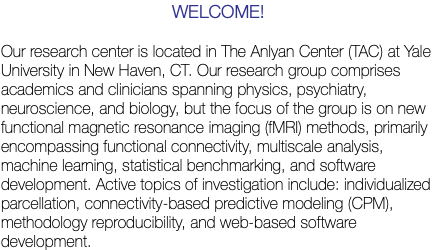
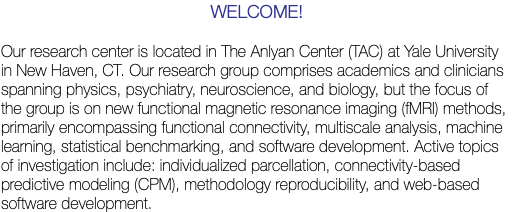
new website

diff --git a/css/index.css b/css/index.css
@@ -1,1 +1,1 @@
-.version.index{color:#00000A;background-color:#85022C;}.js body{visibility:hidden;}.js body.initialized{visibility:visible;}#page{margin-left:auto;background-image:none;width:100%;z-index:1;background-color:transparent;border-color:#000000;margin-right:auto;border-width:0px;}#u272{height:37px;top:0px;z-index:33;position:fixed;}#u272-bw{z-index:33;}#u93308{z-index:31;background-color:transparent;margin-right:-10000px;position:relative;}#u93306{width:100%;z-index:32;display:block;}#u90329{z-index:15;background-color:transparent;border-color:transparent;position:relative;border-width:0px;}#u862-9{z-index:16;vertical-align:top;margin-right:-10000px;position:relative;display:block;}#u81637{z-index:5;background-color:transparent;border-color:transparent;position:relative;border-width:0px;}#u81633{border-color:transparent;z-index:6;width:100%;background-color:transparent;margin-right:-10000px;position:relative;border-width:0px;}#u41612{border-color:transparent;z-index:7;width:100%;background-color:transparent;margin-right:-10000px;position:relative;border-width:0px;}#u2365-7{z-index:8;vertical-align:top;margin-right:-10000px;position:relative;display:block;}#pu46167-3{margin-right:-10000px;z-index:2;width:100%;}#u46167-3,#u46167-3-bw{z-index:2;}#u37043{margin-right:-10000px;z-index:25;position:relative;}#u36722{margin-right:-10000px;z-index:26;position:relative;width:100%;}#u35309{margin-right:-10000px;z-index:28;position:relative;}#u33361{margin-right:-10000px;z-index:29;position:relative;width:100%;}#u33359{z-index:30;}#u36706{z-index:27;margin-right:-10000px;position:relative;}.ie #u36706{-ms-filter:"progid:DXImageTransform.Microsoft.Alpha(Opacity=1)";background-color:#FFFFFF;opacity:0.01;filter:alpha(opacity=1);}#u36706 .fluid_height_spacer{padding-bottom:100%;}.html{background-color:#FFFFFF;}body{position:relative;}@media (min-width: 860px), print{#muse_css_mq{background-color:#FFFFFF;}#bp_infinity.active{display:block;}#page{min-height:541px;max-width:960px;}#u93308{margin-top:79px;width:13.23%;left:3.75%;}#pu90329{z-index:15;padding-bottom:0px;margin-right:-10000px;margin-top:87px;width:72.09%;margin-left:18.23%;}#u90329{width:91.77%;margin-left:7.66%;}#u862-9{width:99.85%;}#u81637{margin-top:13px;width:100%;}#u2365-7{width:100%;}#pu3859{z-index:34;height:0px;padding-bottom:20px;margin-right:-10000px;margin-top:10px;width:39.59%;}#u3859{z-index:34;padding-bottom:19px;position:fixed;top:11px;right:60px;width:39.59%;max-width:380px;}#u287-4{z-index:43;min-height:19px;position:fixed;top:11px;right:359px;width:8.44%;max-width:81px;}#u281-4{z-index:39;min-height:19px;position:fixed;top:11px;right:250px;width:10.63%;max-width:102px;}#u278-4{z-index:35;min-height:19px;position:fixed;top:11px;right:60px;width:9.17%;max-width:88px;}#u42086-6{z-index:47;min-height:19px;position:fixed;top:11px;right:154px;width:10.63%;max-width:102px;}.css_verticalspacer .verticalspacer{height:calc(100vh - 485px);}#pu46167-3{margin-bottom:-12px;margin-top:65px;}#u46167-3{min-height:37px;}#u46167-3-bw{min-height:37px;margin-top:1px;}#u37043{width:9.17%;left:45.73%;}#u35309{width:39.78%;}#u33359{width:102.86%;}#u36706{margin-top:1px;width:47.73%;left:52.28%;}.verticalspacer{min-height:55px;}}@media (min-width: 795px) and (max-width: 859px){#muse_css_mq{background-color:#00035b;}#bp_859.active{display:block;}#page{min-height:541px;max-width:859px;}#u93308{margin-top:79px;width:13.28%;left:3.73%;}#pu90329{z-index:15;padding-bottom:0px;margin-right:-10000px;margin-top:87px;width:72.07%;margin-left:18.28%;}#u90329{width:91.77%;margin-left:7.6%;}#u862-9{width:100%;}#u81637{margin-top:13px;width:100%;}#u2365-7{margin-bottom:-1px;width:100%;left:-0.17%;}#pu3859{z-index:34;height:0px;padding-bottom:19px;margin-right:-10000px;margin-top:8px;width:37.49%;}#u3859{z-index:34;padding-bottom:20px;position:fixed;top:8px;right:99px;width:37.49%;max-width:322px;}#u287-4{z-index:43;min-height:19px;position:fixed;top:9px;right:365px;width:6.52%;max-width:56px;}#u281-4{z-index:39;min-height:19px;position:fixed;top:8px;right:260px;width:11.3%;max-width:97px;}#u278-4{z-index:35;min-height:19px;position:fixed;top:9px;right:99px;width:6.76%;max-width:58px;}#u42086-6{z-index:47;min-height:19px;position:fixed;top:8px;right:170px;width:9.67%;max-width:83px;}.css_verticalspacer .verticalspacer{height:calc(100vh - 481px);}#pu46167-3{margin-bottom:-2px;margin-top:62px;}#u46167-3,#u46167-3-bw{min-height:30px;}#u37043{width:7.69%;left:45.99%;}#u35309{width:45.46%;}#u33359{width:103.34%;}#u36706{margin-top:2px;width:45.46%;left:54.55%;}body{overflow-x:hidden;}.verticalspacer{min-height:59px;}}@media (min-width: 565px) and (max-width: 794px){#muse_css_mq{background-color:#00031a;}#bp_794.active{display:block;}#page{min-height:541px;max-width:794px;}#u93308{margin-top:79px;width:13.23%;left:3.66%;}#pu90329{z-index:15;padding-bottom:0px;margin-right:-10000px;margin-top:87px;width:72.17%;margin-left:18.27%;}#u90329{width:91.63%;margin-left:7.68%;}#u862-9{width:100%;}#u81637{margin-top:13px;width:100%;}#u2365-7{width:100%;left:-0.18%;}#pu3859{z-index:34;height:1px;padding-bottom:19px;margin-right:-10000px;margin-top:10px;width:43.83%;}#u3859{z-index:34;padding-bottom:19px;position:fixed;top:10px;right:20px;width:43.83%;max-width:348px;}#u287-4{z-index:43;min-height:19px;position:fixed;top:10px;right:294px;width:9.32%;max-width:74px;}#u281-4{z-index:39;min-height:19px;position:fixed;top:10px;right:178px;width:16.88%;max-width:134px;}#u278-4{z-index:35;min-height:19px;position:fixed;top:10px;right:20px;width:7.81%;max-width:62px;}#u42086-6{z-index:47;min-height:19px;position:fixed;top:11px;right:88px;width:11.97%;max-width:95px;}.css_verticalspacer .verticalspacer{height:calc(100vh - 471px);}#pu46167-3{margin-top:34px;}#u46167-3,#u46167-3-bw{min-height:28px;}#u37043{width:7.56%;left:48.37%;}#u35309{width:48.34%;}#u33359{width:103.45%;}#u36706{margin-top:1px;width:46.67%;left:53.34%;}body{overflow-x:hidden;}.verticalspacer{min-height:69px;}}@media (min-width: 563px) and (max-width: 564px){#muse_css_mq{background-color:#000234;}#bp_564.active{display:block;}#page{min-height:541px;max-width:564px;}#pu272{z-index:33;width:0.01px;height:0px;padding-bottom:37px;margin-right:-10000px;}#accordionu17886{z-index:34;position:fixed;top:0px;}#u17887{z-index:35;}#u17888-3{z-index:36;min-height:37px;}#u17888-3:hover{padding-top:0px;padding-bottom:0px;min-height:37px;margin:0px 0px 0px 0%;}#u17888-3.AccordionPanelTabOpen{padding-top:0px;padding-bottom:0px;min-height:37px;margin:0px 0px 0px 0%;}#u17889{z-index:39;width:100%;padding-top:4px;padding-bottom:1px;}#u17891-6{z-index:40;min-height:17px;position:relative;width:24.83%;margin-left:70.75%;}#u17890-6{z-index:58;min-height:23px;margin-top:3px;position:relative;width:36%;margin-left:60.47%;}#u17892-6{z-index:52;min-height:24px;margin-top:2px;position:relative;width:35.64%;margin-left:60.11%;}#u17893-6{z-index:46;min-height:25px;margin-top:1px;position:relative;width:24.83%;margin-left:70.93%;}#accordionu17886-bw{z-index:34;}#u93308{margin-top:79px;width:13.3%;left:3.73%;}#pu90329{z-index:15;padding-bottom:0px;margin-right:-10000px;margin-top:87px;width:72.17%;margin-left:18.27%;}#u90329{width:91.65%;margin-left:7.62%;}#u862-9{width:99.74%;}#u81637{margin-top:13px;width:100%;}#u2365-7{width:100%;left:-0.25%;}.css_verticalspacer .verticalspacer{height:calc(100vh - 563px);}#pu46167-3{margin-bottom:-12px;margin-top:36px;}#u46167-3{min-height:29px;}#u46167-3-bw{min-height:29px;margin-top:1px;}#u37043{width:11.53%;left:45.93%;}#u35309{width:47.7%;}#u33359{width:100%;}#u36706{margin-top:1px;width:43.08%;left:56.93%;}body{overflow-x:hidden;}.verticalspacer{min-height:1px;}}@media (max-width: 562px){#muse_css_mq{background-color:#000232;}#bp_562.active{display:block;}#page{min-height:729px;max-width:562px;}#pu272{z-index:33;width:0.01px;height:0px;padding-bottom:37px;margin-right:-10000px;}#accordionu17886{z-index:34;position:fixed;top:0px;}#u17887{z-index:35;}#u17888-3{z-index:36;min-height:37px;}#u17888-3:hover{padding-top:0px;padding-bottom:0px;min-height:37px;margin:0px 0px 0px 0%;}#u17888-3.AccordionPanelTabOpen{padding-top:0px;padding-bottom:0px;min-height:37px;margin:0px 0px 0px 0%;}#u17889{z-index:39;width:100%;padding-top:4px;padding-bottom:1px;}#u17891-6{z-index:40;min-height:17px;position:relative;width:24.74%;margin-left:70.65%;}#u17890-6{z-index:58;min-height:23px;margin-top:3px;position:relative;width:36.13%;margin-left:60.33%;}#u17892-6{z-index:52;min-height:24px;margin-top:2px;position:relative;width:35.59%;margin-left:60.15%;}#u17893-6{z-index:46;min-height:25px;margin-top:1px;position:relative;width:24.74%;margin-left:70.82%;}#accordionu17886-bw{z-index:34;}#ppu93308{z-index:0;padding-bottom:0px;margin-right:-10000px;margin-top:77px;width:80.08%;margin-left:3.74%;}#pu93308{z-index:31;width:100%;}#u93308{margin-top:2px;width:31.12%;}#u90329{margin-right:-10000px;width:60.45%;left:39.56%;}#u862-9{width:99.64%;}#u81637{margin-top:32px;width:96.45%;margin-left:3.56%;}#u2365-7{width:100.24%;left:-0.24%;}.css_verticalspacer .verticalspacer{height:calc(100vh - 698px);}#pu46167-3{margin-bottom:-12px;margin-top:37px;}#u46167-3,#u46167-3-bw{min-height:29px;}#u37043{width:11.57%;left:45.91%;}#u35309{width:47.7%;}#u33359{width:100%;}#u36706{margin-top:1px;width:43.08%;left:56.93%;}body{overflow-x:hidden;min-width:320px;}.verticalspacer{min-height:30px;}}
+.version.index{color:#0000E6;background-color:#D97AEB;}.js body{visibility:hidden;}.js body.initialized{visibility:visible;}#page{margin-left:auto;background-image:none;width:100%;z-index:1;background-color:transparent;border-color:#000000;margin-right:auto;border-width:0px;}#u272{height:37px;top:0px;z-index:33;position:fixed;}#u272-bw{z-index:33;}#u93308{z-index:31;background-color:transparent;margin-right:-10000px;position:relative;}#u93306{width:100%;z-index:32;display:block;}#u90329{z-index:15;background-color:transparent;border-color:transparent;position:relative;border-width:0px;}#u862-9{z-index:16;vertical-align:top;margin-right:-10000px;position:relative;display:block;}#u81637{z-index:5;background-color:transparent;border-color:transparent;position:relative;border-width:0px;}#u81633{border-color:transparent;z-index:6;width:100%;background-color:transparent;margin-right:-10000px;position:relative;border-width:0px;}#u41612{border-color:transparent;z-index:7;width:100%;background-color:transparent;margin-right:-10000px;position:relative;border-width:0px;}#u2365-7{z-index:8;vertical-align:top;margin-right:-10000px;position:relative;display:block;}#pu46167-3{margin-right:-10000px;z-index:2;width:100%;}#u46167-3,#u46167-3-bw{z-index:2;}#u37043{margin-right:-10000px;z-index:25;position:relative;}#u36722{margin-right:-10000px;z-index:26;position:relative;width:100%;}#u35309{margin-right:-10000px;z-index:28;position:relative;}#u33361{margin-right:-10000px;z-index:29;position:relative;width:100%;}#u33359{z-index:30;}#u36706{z-index:27;margin-right:-10000px;position:relative;}.ie #u36706{-ms-filter:"progid:DXImageTransform.Microsoft.Alpha(Opacity=1)";background-color:#FFFFFF;opacity:0.01;filter:alpha(opacity=1);}#u36706 .fluid_height_spacer{padding-bottom:100%;}.html{background-color:#FFFFFF;}body{position:relative;}@media (min-width: 860px), print{#muse_css_mq{background-color:#FFFFFF;}#bp_infinity.active{display:block;}#page{min-height:541px;max-width:960px;}#u93308{margin-top:79px;width:13.23%;left:3.75%;}#pu90329{z-index:15;padding-bottom:0px;margin-right:-10000px;margin-top:87px;width:72.09%;margin-left:18.23%;}#u90329{width:91.77%;margin-left:7.66%;}#u862-9{width:99.85%;}#u81637{margin-top:13px;width:100%;}#u2365-7{width:100%;}#pu3859{z-index:34;height:0px;padding-bottom:20px;margin-right:-10000px;margin-top:10px;width:39.59%;}#u3859{z-index:34;padding-bottom:19px;position:fixed;top:11px;right:60px;width:39.59%;max-width:380px;}#u287-4{z-index:43;min-height:19px;position:fixed;top:11px;right:359px;width:8.44%;max-width:81px;}#u281-4{z-index:39;min-height:19px;position:fixed;top:11px;right:250px;width:10.63%;max-width:102px;}#u278-4{z-index:35;min-height:19px;position:fixed;top:11px;right:60px;width:9.17%;max-width:88px;}#u42086-6{z-index:47;min-height:19px;position:fixed;top:11px;right:154px;width:10.63%;max-width:102px;}.css_verticalspacer .verticalspacer{height:calc(100vh - 485px);}#pu46167-3{margin-bottom:-12px;margin-top:65px;}#u46167-3{min-height:37px;}#u46167-3-bw{min-height:37px;margin-top:1px;}#u37043{width:9.17%;left:45.73%;}#u35309{width:39.78%;}#u33359{width:102.86%;}#u36706{margin-top:1px;width:47.73%;left:52.28%;}.verticalspacer{min-height:55px;}}@media (min-width: 795px) and (max-width: 859px){#muse_css_mq{background-color:#00035b;}#bp_859.active{display:block;}#page{min-height:541px;max-width:859px;}#u93308{margin-top:79px;width:13.28%;left:3.73%;}#pu90329{z-index:15;padding-bottom:0px;margin-right:-10000px;margin-top:87px;width:72.07%;margin-left:18.28%;}#u90329{width:91.77%;margin-left:7.6%;}#u862-9{width:100%;}#u81637{margin-top:13px;width:100%;}#u2365-7{margin-bottom:-1px;width:100%;left:-0.17%;}#pu3859{z-index:34;height:0px;padding-bottom:19px;margin-right:-10000px;margin-top:8px;width:37.49%;}#u3859{z-index:34;padding-bottom:20px;position:fixed;top:8px;right:99px;width:37.49%;max-width:322px;}#u287-4{z-index:43;min-height:19px;position:fixed;top:9px;right:365px;width:6.52%;max-width:56px;}#u281-4{z-index:39;min-height:19px;position:fixed;top:8px;right:260px;width:11.3%;max-width:97px;}#u278-4{z-index:35;min-height:19px;position:fixed;top:9px;right:99px;width:6.76%;max-width:58px;}#u42086-6{z-index:47;min-height:19px;position:fixed;top:8px;right:170px;width:9.67%;max-width:83px;}.css_verticalspacer .verticalspacer{height:calc(100vh - 481px);}#pu46167-3{margin-bottom:-2px;margin-top:62px;}#u46167-3,#u46167-3-bw{min-height:30px;}#u37043{width:7.69%;left:45.99%;}#u35309{width:45.46%;}#u33359{width:103.34%;}#u36706{margin-top:2px;width:45.46%;left:54.55%;}body{overflow-x:hidden;}.verticalspacer{min-height:59px;}}@media (min-width: 565px) and (max-width: 794px){#muse_css_mq{background-color:#00031a;}#bp_794.active{display:block;}#page{min-height:541px;max-width:794px;}#u93308{margin-top:79px;width:13.23%;left:3.66%;}#pu90329{z-index:15;padding-bottom:0px;margin-right:-10000px;margin-top:87px;width:72.17%;margin-left:18.27%;}#u90329{width:91.63%;margin-left:7.68%;}#u862-9{width:100%;}#u81637{margin-top:13px;width:100%;}#u2365-7{width:100%;left:-0.18%;}#pu3859{z-index:34;height:1px;padding-bottom:19px;margin-right:-10000px;margin-top:10px;width:43.83%;}#u3859{z-index:34;padding-bottom:19px;position:fixed;top:10px;right:20px;width:43.83%;max-width:348px;}#u287-4{z-index:43;min-height:19px;position:fixed;top:10px;right:294px;width:9.32%;max-width:74px;}#u281-4{z-index:39;min-height:19px;position:fixed;top:10px;right:178px;width:16.88%;max-width:134px;}#u278-4{z-index:35;min-height:19px;position:fixed;top:10px;right:20px;width:7.81%;max-width:62px;}#u42086-6{z-index:47;min-height:19px;position:fixed;top:11px;right:88px;width:11.97%;max-width:95px;}.css_verticalspacer .verticalspacer{height:calc(100vh - 471px);}#pu46167-3{margin-top:34px;}#u46167-3,#u46167-3-bw{min-height:28px;}#u37043{width:7.56%;left:48.37%;}#u35309{width:48.34%;}#u33359{width:103.45%;}#u36706{margin-top:1px;width:46.67%;left:53.34%;}body{overflow-x:hidden;}.verticalspacer{min-height:69px;}}@media (min-width: 563px) and (max-width: 564px){#muse_css_mq{background-color:#000234;}#bp_564.active{display:block;}#page{min-height:541px;max-width:564px;}#pu272{z-index:33;width:0.01px;height:0px;padding-bottom:37px;margin-right:-10000px;}#accordionu17886{z-index:34;position:fixed;top:0px;}#u17887{z-index:35;}#u17888-3{z-index:36;min-height:37px;}#u17888-3:hover{padding-top:0px;padding-bottom:0px;min-height:37px;margin:0px 0px 0px 0%;}#u17888-3.AccordionPanelTabOpen{padding-top:0px;padding-bottom:0px;min-height:37px;margin:0px 0px 0px 0%;}#u17889{z-index:39;width:100%;padding-top:4px;padding-bottom:1px;}#u17891-6{z-index:40;min-height:17px;position:relative;width:24.83%;margin-left:70.75%;}#u17890-6{z-index:58;min-height:23px;margin-top:3px;position:relative;width:36%;margin-left:60.47%;}#u17892-6{z-index:52;min-height:24px;margin-top:2px;position:relative;width:35.64%;margin-left:60.11%;}#u17893-6{z-index:46;min-height:25px;margin-top:1px;position:relative;width:24.83%;margin-left:70.93%;}#accordionu17886-bw{z-index:34;}#u93308{margin-top:79px;width:13.3%;left:3.73%;}#pu90329{z-index:15;padding-bottom:0px;margin-right:-10000px;margin-top:87px;width:72.17%;margin-left:18.27%;}#u90329{width:91.65%;margin-left:7.62%;}#u862-9{width:99.74%;}#u81637{margin-top:13px;width:100%;}#u2365-7{width:100%;left:-0.25%;}.css_verticalspacer .verticalspacer{height:calc(100vh - 563px);}#pu46167-3{margin-bottom:-12px;margin-top:36px;}#u46167-3{min-height:29px;}#u46167-3-bw{min-height:29px;margin-top:1px;}#u37043{width:11.53%;left:45.93%;}#u35309{width:47.7%;}#u33359{width:100%;}#u36706{margin-top:1px;width:43.08%;left:56.93%;}body{overflow-x:hidden;}.verticalspacer{min-height:1px;}}@media (max-width: 562px){#muse_css_mq{background-color:#000232;}#bp_562.active{display:block;}#page{min-height:729px;max-width:562px;}#pu272{z-index:33;width:0.01px;height:0px;padding-bottom:37px;margin-right:-10000px;}#accordionu17886{z-index:34;position:fixed;top:0px;}#u17887{z-index:35;}#u17888-3{z-index:36;min-height:37px;}#u17888-3:hover{padding-top:0px;padding-bottom:0px;min-height:37px;margin:0px 0px 0px 0%;}#u17888-3.AccordionPanelTabOpen{padding-top:0px;padding-bottom:0px;min-height:37px;margin:0px 0px 0px 0%;}#u17889{z-index:39;width:100%;padding-top:4px;padding-bottom:1px;}#u17891-6{z-index:40;min-height:17px;position:relative;width:24.74%;margin-left:70.65%;}#u17890-6{z-index:58;min-height:23px;margin-top:3px;position:relative;width:36.13%;margin-left:60.33%;}#u17892-6{z-index:52;min-height:24px;margin-top:2px;position:relative;width:35.59%;margin-left:60.15%;}#u17893-6{z-index:46;min-height:25px;margin-top:1px;position:relative;width:24.74%;margin-left:70.82%;}#accordionu17886-bw{z-index:34;}#ppu93308{z-index:0;padding-bottom:0px;margin-right:-10000px;margin-top:77px;width:92%;margin-left:3.74%;}#pu93308{z-index:31;width:87.05%;}#u93308{margin-top:2px;width:31.12%;}#u90329{margin-right:-10000px;width:60.45%;left:39.56%;}#u862-9{width:99.64%;}#u81637{margin-top:16px;width:98.84%;margin-left:1.17%;}#u2365-7{width:100.2%;left:-0.2%;}.css_verticalspacer .verticalspacer{height:calc(100vh - 644px);}#pu46167-3{margin-bottom:-12px;margin-top:37px;}#u46167-3,#u46167-3-bw{min-height:29px;}#u37043{width:11.57%;left:45.91%;}#u35309{width:47.7%;}#u33359{width:100%;}#u36706{margin-top:1px;width:43.08%;left:56.93%;}body{overflow-x:hidden;min-width:320px;}.verticalspacer{min-height:84px;}}

diff --git a/css/master_a-master.css b/css/master_a-master.css
@@ -1,1 +1,1 @@
-#u272{background-color:#00356B;}#u46167-3{background-color:#00356B;color:#FFFFFF;}#u37043,#u36722,#u35309{background-color:transparent;border-color:transparent;border-width:0px;}#u33361{background-color:transparent;}#u33359{display:block;}@media (min-width: 860px), print{#u3859{border-width:0px;border-color:transparent;background-color:transparent;}#u287-4,#u281-4,#u278-4{background-color:transparent;text-align:center;color:#FFFFFF;font-family:Arial, Helvetica Neue, Helvetica, sans-serif;font-weight:normal;}#u42086-6{background-color:transparent;text-align:center;color:#FFFFFF;font-family:Geneva, Verdana, Lucida Sans, Lucida Sans Unicode, sans-serif;font-weight:bold;}#u42086{color:#FFFFFF;font-family:Arial, Helvetica Neue, Helvetica, sans-serif;font-weight:normal;}}@media (min-width: 795px) and (max-width: 859px){#u3859{border-width:0px;border-color:transparent;background-color:transparent;}#u287-4,#u281-4,#u278-4{background-color:transparent;text-align:center;color:#FFFFFF;font-family:Arial, Helvetica Neue, Helvetica, sans-serif;font-weight:normal;}#u42086-6{background-color:transparent;text-align:center;color:#FFFFFF;font-family:Geneva, Verdana, Lucida Sans, Lucida Sans Unicode, sans-serif;font-weight:bold;}#u42086{color:#FFFFFF;font-family:Arial, Helvetica Neue, Helvetica, sans-serif;font-weight:normal;}}@media (min-width: 764px) and (max-width: 794px){#u3859{border-width:0px;border-color:transparent;background-color:transparent;}#u287-4,#u281-4,#u278-4{background-color:transparent;text-align:center;color:#FFFFFF;font-family:Arial, Helvetica Neue, Helvetica, sans-serif;font-weight:normal;}#u42086-6{background-color:transparent;text-align:center;color:#FFFFFF;font-family:Geneva, Verdana, Lucida Sans, Lucida Sans Unicode, sans-serif;font-weight:bold;}#u42086{color:#FFFFFF;font-family:Arial, Helvetica Neue, Helvetica, sans-serif;font-weight:normal;}}@media (min-width: 648px) and (max-width: 763px){#u3859{border-width:0px;border-color:transparent;background-color:transparent;}#u287-4,#u281-4,#u278-4{background-color:transparent;text-align:center;color:#FFFFFF;font-family:Arial, Helvetica Neue, Helvetica, sans-serif;font-weight:normal;}#u42086-6{background-color:transparent;text-align:center;color:#FFFFFF;font-family:Geneva, Verdana, Lucida Sans, Lucida Sans Unicode, sans-serif;font-weight:bold;}#u42086{color:#FFFFFF;font-family:Arial, Helvetica Neue, Helvetica, sans-serif;font-weight:normal;}}@media (min-width: 565px) and (max-width: 647px){#u3859{border-width:0px;border-color:transparent;background-color:transparent;}#u287-4,#u281-4,#u278-4{background-color:transparent;text-align:center;color:#FFFFFF;font-family:Arial, Helvetica Neue, Helvetica, sans-serif;font-weight:normal;}#u42086-6{background-color:transparent;text-align:center;color:#FFFFFF;font-family:Geneva, Verdana, Lucida Sans, Lucida Sans Unicode, sans-serif;font-weight:bold;}#u42086{color:#FFFFFF;font-family:Arial, Helvetica Neue, Helvetica, sans-serif;font-weight:normal;}}@media (min-width: 501px) and (max-width: 564px){#accordionu17886,#u17887{border-width:0px;background-color:transparent;}#u17888-3{border-width:0px;opacity:1;-ms-filter:"progid:DXImageTransform.Microsoft.Alpha(Opacity=100)";filter:alpha(opacity=100);background:#00356B url("../images/ico_ham.svg?crc=496736174") no-repeat right center;background-size:59px 59px;}#u17888-3:hover{opacity:1;-ms-filter:"progid:DXImageTransform.Microsoft.Alpha(Opacity=100)";filter:alpha(opacity=100);background:transparent url("../images/ico_ham.svg?crc=496736174") no-repeat right center;background-size:59px 59px;}#u17888-3.AccordionPanelTabOpen{opacity:1;-ms-filter:"progid:DXImageTransform.Microsoft.Alpha(Opacity=100)";filter:alpha(opacity=100);background:#525358 url("../images/ico_ham_close.svg?crc=528877227") no-repeat right center;background-color:rgba(39,41,47,0.8);background-size:59px 59px;}.nosvg #u17888-3,.nosvg #u17888-3:hover{background-image:url('../images/ico_ham_poster_u70664.png?crc=3918579516');}#u17888-3.AccordionPanelTabOpen p{color:#4F4F4F;visibility:inherit;}.nosvg #u17888-3.AccordionPanelTabOpen{background-image:url('../images/ico_ham_close_poster_u70672.png?crc=266735806');}#u17889{border-width:0px;background-color:#525358;background-color:rgba(39,41,47,0.8);-pie-background:rgba(39,41,47,0.8);}#u17891-6,#u17890-6,#u17892-6,#u17893-6{background-color:transparent;text-align:right;color:#FFFFFF;}#u17891,#u17890,#u17892,#u17893{color:#FFFFFF;}.AccordionPanelTab{cursor:pointer;}}@media (max-width: 500px){#accordionu17886,#u17887{border-width:0px;background-color:transparent;}#u17888-3{border-width:0px;opacity:1;-ms-filter:"progid:DXImageTransform.Microsoft.Alpha(Opacity=100)";filter:alpha(opacity=100);background:#00356B url("../images/ico_ham.svg?crc=496736174") no-repeat right center;background-size:59px 59px;}#u17888-3:hover{opacity:1;-ms-filter:"progid:DXImageTransform.Microsoft.Alpha(Opacity=100)";filter:alpha(opacity=100);background:transparent url("../images/ico_ham.svg?crc=496736174") no-repeat right center;background-size:59px 59px;}#u17888-3.AccordionPanelTabOpen{opacity:1;-ms-filter:"progid:DXImageTransform.Microsoft.Alpha(Opacity=100)";filter:alpha(opacity=100);background:#525358 url("../images/ico_ham_close.svg?crc=528877227") no-repeat right center;background-color:rgba(39,41,47,0.8);background-size:59px 59px;}.nosvg #u17888-3,.nosvg #u17888-3:hover{background-image:url('../images/ico_ham_poster_u70664.png?crc=3918579516');}#u17888-3.AccordionPanelTabOpen p{color:#4F4F4F;visibility:inherit;}.nosvg #u17888-3.AccordionPanelTabOpen{background-image:url('../images/ico_ham_close_poster_u70672.png?crc=266735806');}#u17889{border-width:0px;background-color:#525358;background-color:rgba(39,41,47,0.8);-pie-background:rgba(39,41,47,0.8);}#u17891-6,#u17890-6,#u17892-6,#u17893-6{background-color:transparent;text-align:right;color:#FFFFFF;}#u17891,#u17890,#u17892,#u17893{color:#FFFFFF;}.AccordionPanelTab{cursor:pointer;}}
+#u272{background-color:#00356B;}#u46167-3{background-color:#00356B;color:#FFFFFF;}#u37043,#u36722,#u35309{background-color:transparent;border-color:transparent;border-width:0px;}#u33361{background-color:transparent;}#u33359{display:block;}@media (min-width: 860px), print{#u3859{border-width:0px;border-color:transparent;background-color:transparent;}#u287-4,#u281-4,#u278-4{background-color:transparent;text-align:center;color:#FFFFFF;font-family:Arial, Helvetica Neue, Helvetica, sans-serif;font-weight:normal;}#u42086-6{background-color:transparent;text-align:center;color:#FFFFFF;font-family:Geneva, Verdana, Lucida Sans, Lucida Sans Unicode, sans-serif;font-weight:bold;}#u42086{color:#FFFFFF;font-family:Arial, Helvetica Neue, Helvetica, sans-serif;font-weight:normal;}}@media (min-width: 795px) and (max-width: 859px){#u3859{border-width:0px;border-color:transparent;background-color:transparent;}#u287-4,#u281-4,#u278-4{background-color:transparent;text-align:center;color:#FFFFFF;font-family:Arial, Helvetica Neue, Helvetica, sans-serif;font-weight:normal;}#u42086-6{background-color:transparent;text-align:center;color:#FFFFFF;font-family:Geneva, Verdana, Lucida Sans, Lucida Sans Unicode, sans-serif;font-weight:bold;}#u42086{color:#FFFFFF;font-family:Arial, Helvetica Neue, Helvetica, sans-serif;font-weight:normal;}}@media (min-width: 565px) and (max-width: 794px){#u3859{border-width:0px;border-color:transparent;background-color:transparent;}#u287-4,#u281-4,#u278-4{background-color:transparent;text-align:center;color:#FFFFFF;font-family:Arial, Helvetica Neue, Helvetica, sans-serif;font-weight:normal;}#u42086-6{background-color:transparent;text-align:center;color:#FFFFFF;font-family:Geneva, Verdana, Lucida Sans, Lucida Sans Unicode, sans-serif;font-weight:bold;}#u42086{color:#FFFFFF;font-family:Arial, Helvetica Neue, Helvetica, sans-serif;font-weight:normal;}}@media (min-width: 563px) and (max-width: 564px){#accordionu17886,#u17887{border-width:0px;background-color:transparent;}#u17888-3{border-width:0px;opacity:1;-ms-filter:"progid:DXImageTransform.Microsoft.Alpha(Opacity=100)";filter:alpha(opacity=100);background:#00356B url("../images/ico_ham.svg?crc=496736174") no-repeat right center;background-size:59px 59px;}#u17888-3:hover{opacity:1;-ms-filter:"progid:DXImageTransform.Microsoft.Alpha(Opacity=100)";filter:alpha(opacity=100);background:transparent url("../images/ico_ham.svg?crc=496736174") no-repeat right center;background-size:59px 59px;}#u17888-3.AccordionPanelTabOpen{opacity:1;-ms-filter:"progid:DXImageTransform.Microsoft.Alpha(Opacity=100)";filter:alpha(opacity=100);background:#525358 url("../images/ico_ham_close.svg?crc=528877227") no-repeat right center;background-color:rgba(39,41,47,0.8);background-size:59px 59px;}.nosvg #u17888-3,.nosvg #u17888-3:hover{background-image:url('../images/ico_ham_poster_u70664.png?crc=3918579516');}#u17888-3.AccordionPanelTabOpen p{color:#4F4F4F;visibility:inherit;}.nosvg #u17888-3.AccordionPanelTabOpen{background-image:url('../images/ico_ham_close_poster_u70672.png?crc=266735806');}#u17889{border-width:0px;background-color:#525358;background-color:rgba(39,41,47,0.8);-pie-background:rgba(39,41,47,0.8);}#u17891-6,#u17890-6,#u17892-6,#u17893-6{background-color:transparent;text-align:right;color:#FFFFFF;}#u17891,#u17890,#u17892,#u17893{color:#FFFFFF;}.AccordionPanelTab{cursor:pointer;}}@media (max-width: 562px){#accordionu17886,#u17887{border-width:0px;background-color:transparent;}#u17888-3{border-width:0px;opacity:1;-ms-filter:"progid:DXImageTransform.Microsoft.Alpha(Opacity=100)";filter:alpha(opacity=100);background:#00356B url("../images/ico_ham.svg?crc=496736174") no-repeat right center;background-size:59px 59px;}#u17888-3:hover{opacity:1;-ms-filter:"progid:DXImageTransform.Microsoft.Alpha(Opacity=100)";filter:alpha(opacity=100);background:transparent url("../images/ico_ham.svg?crc=496736174") no-repeat right center;background-size:59px 59px;}#u17888-3.AccordionPanelTabOpen{opacity:1;-ms-filter:"progid:DXImageTransform.Microsoft.Alpha(Opacity=100)";filter:alpha(opacity=100);background:#525358 url("../images/ico_ham_close.svg?crc=528877227") no-repeat right center;background-color:rgba(39,41,47,0.8);background-size:59px 59px;}.nosvg #u17888-3,.nosvg #u17888-3:hover{background-image:url('../images/ico_ham_poster_u70664.png?crc=3918579516');}#u17888-3.AccordionPanelTabOpen p{color:#4F4F4F;visibility:inherit;}.nosvg #u17888-3.AccordionPanelTabOpen{background-image:url('../images/ico_ham_close_poster_u70672.png?crc=266735806');}#u17889{border-width:0px;background-color:#525358;background-color:rgba(39,41,47,0.8);-pie-background:rgba(39,41,47,0.8);}#u17891-6,#u17890-6,#u17892-6,#u17893-6{background-color:transparent;text-align:right;color:#FFFFFF;}#u17891,#u17890,#u17892,#u17893{color:#FFFFFF;}.AccordionPanelTab{cursor:pointer;}}

diff --git a/index.html b/index.html
@@ -18,7 +18,7 @@ if(typeof Muse == "undefined") window.Muse = {}; window.Muse.assets = {"required
   <!-- CSS -->
   <link rel="stylesheet" type="text/css" href="css/site_global.css?crc=4097807371"/>
   <link rel="stylesheet" type="text/css" href="css/master_a-master.css?crc=4083323208"/>
-  <link rel="stylesheet" type="text/css" href="css/index.css?crc=176489004" id="pagesheet"/>
+  <link rel="stylesheet" type="text/css" href="css/index.css?crc=3873012459" id="pagesheet"/>
   <!-- IE-only CSS -->
   <!--[if lt IE 9]>
   <link rel="stylesheet" type="text/css" href="css/nomq_preview_master_a-master.css?crc=3862258211"/>
@@ -193,12 +193,12 @@ if(typeof Muse == "undefined") window.Muse = {}; window.Muse.assets = {"required
      <div class="clearfix colelem temp_no_id" data-orig-id="u81637"><!-- group -->
       <div class="clearfix grpelem temp_no_id" data-orig-id="u81633"><!-- group -->
        <div class="clearfix grpelem temp_no_id" data-orig-id="u41612"><!-- group -->
-        <img class="grpelem temp_no_id temp_no_img_src" alt="WELCOME! Our research center is located in The Anlyan Center (TAC) at Yale University in New Haven, CT. Our research group comprises academics and clinicians spanning physics, psychiatry, neuroscience, and biology, but the focus of the group is on new functional magnetic resonance imaging (fMRI) methods, primarily encompassing functional connectivity, multiscale analysis, machine learning, statistical benchmarking, and software development. Active topics of investigation include: individualized parcellation, connectivity-based predictive modeling (CPM), methodology reproducibility, and web-based software development." data-orig-src="images/u2365-75.png?crc=3972023644" data-image-width="435" data-orig-id="u2365-7" src="images/blank.gif?crc=4208392903"/><!-- rasterized frame -->
+        <img class="grpelem temp_no_id temp_no_img_src" alt="WELCOME! Our research center is located in The Anlyan Center (TAC) at Yale University in New Haven, CT. Our research group comprises academics and clinicians spanning physics, psychiatry, neuroscience, and biology, but the focus of the group is on new functional magnetic resonance imaging (fMRI) methods, primarily encompassing functional connectivity, multiscale analysis, machine learning, statistical benchmarking, and software development. Active topics of investigation include: individualized parcellation, connectivity-based predictive modeling (CPM), methodology reproducibility, and web-based software development." data-orig-src="images/u2365-75.png?crc=197430816" data-image-width="512" data-orig-id="u2365-7" src="images/blank.gif?crc=4208392903"/><!-- rasterized frame -->
        </div>
       </div>
      </div>
     </div>
-    <div class="verticalspacer" data-offset-top="645" data-content-above-spacer="644" data-content-below-spacer="54" data-sizePolicy="fixed" data-pintopage="page_fixedLeft"></div>
+    <div class="verticalspacer" data-offset-top="591" data-content-above-spacer="590" data-content-below-spacer="54" data-sizePolicy="fixed" data-pintopage="page_fixedLeft"></div>
     <span class="clearfix grpelem placeholder" data-placeholder-for="pu46167-3_content"><!-- placeholder node --></span>
    </div>
   </div>
